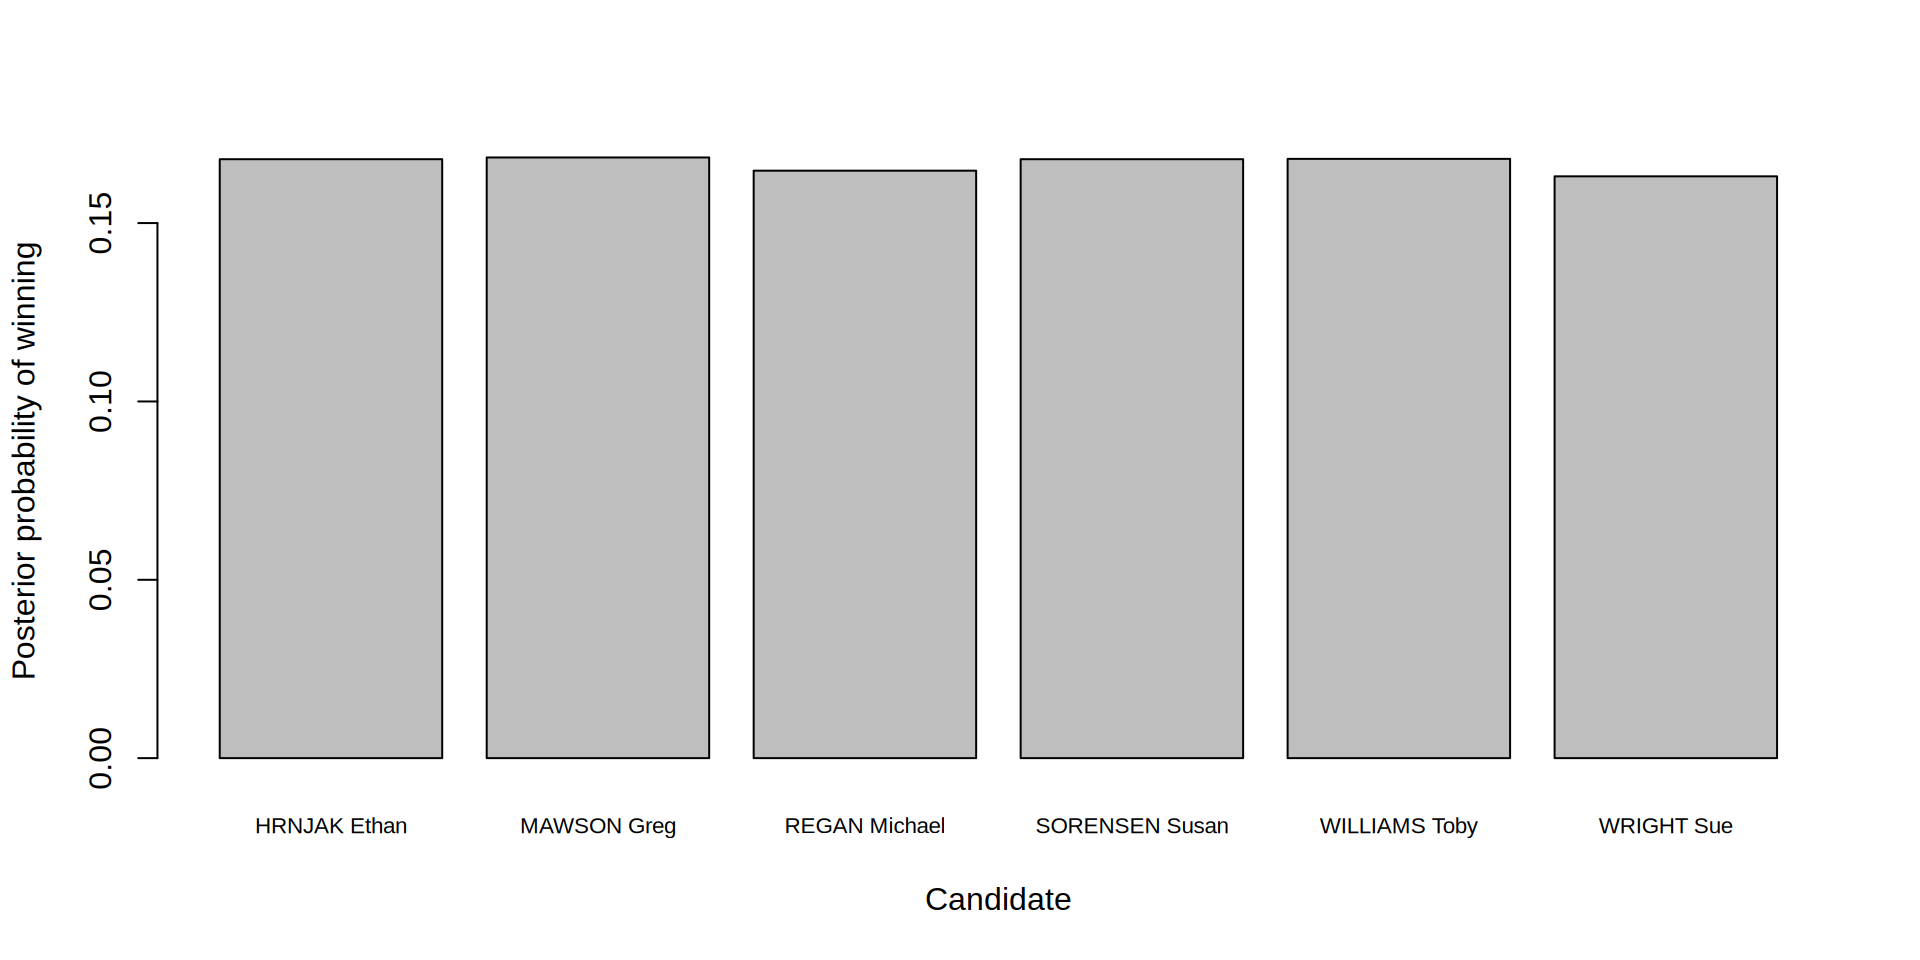
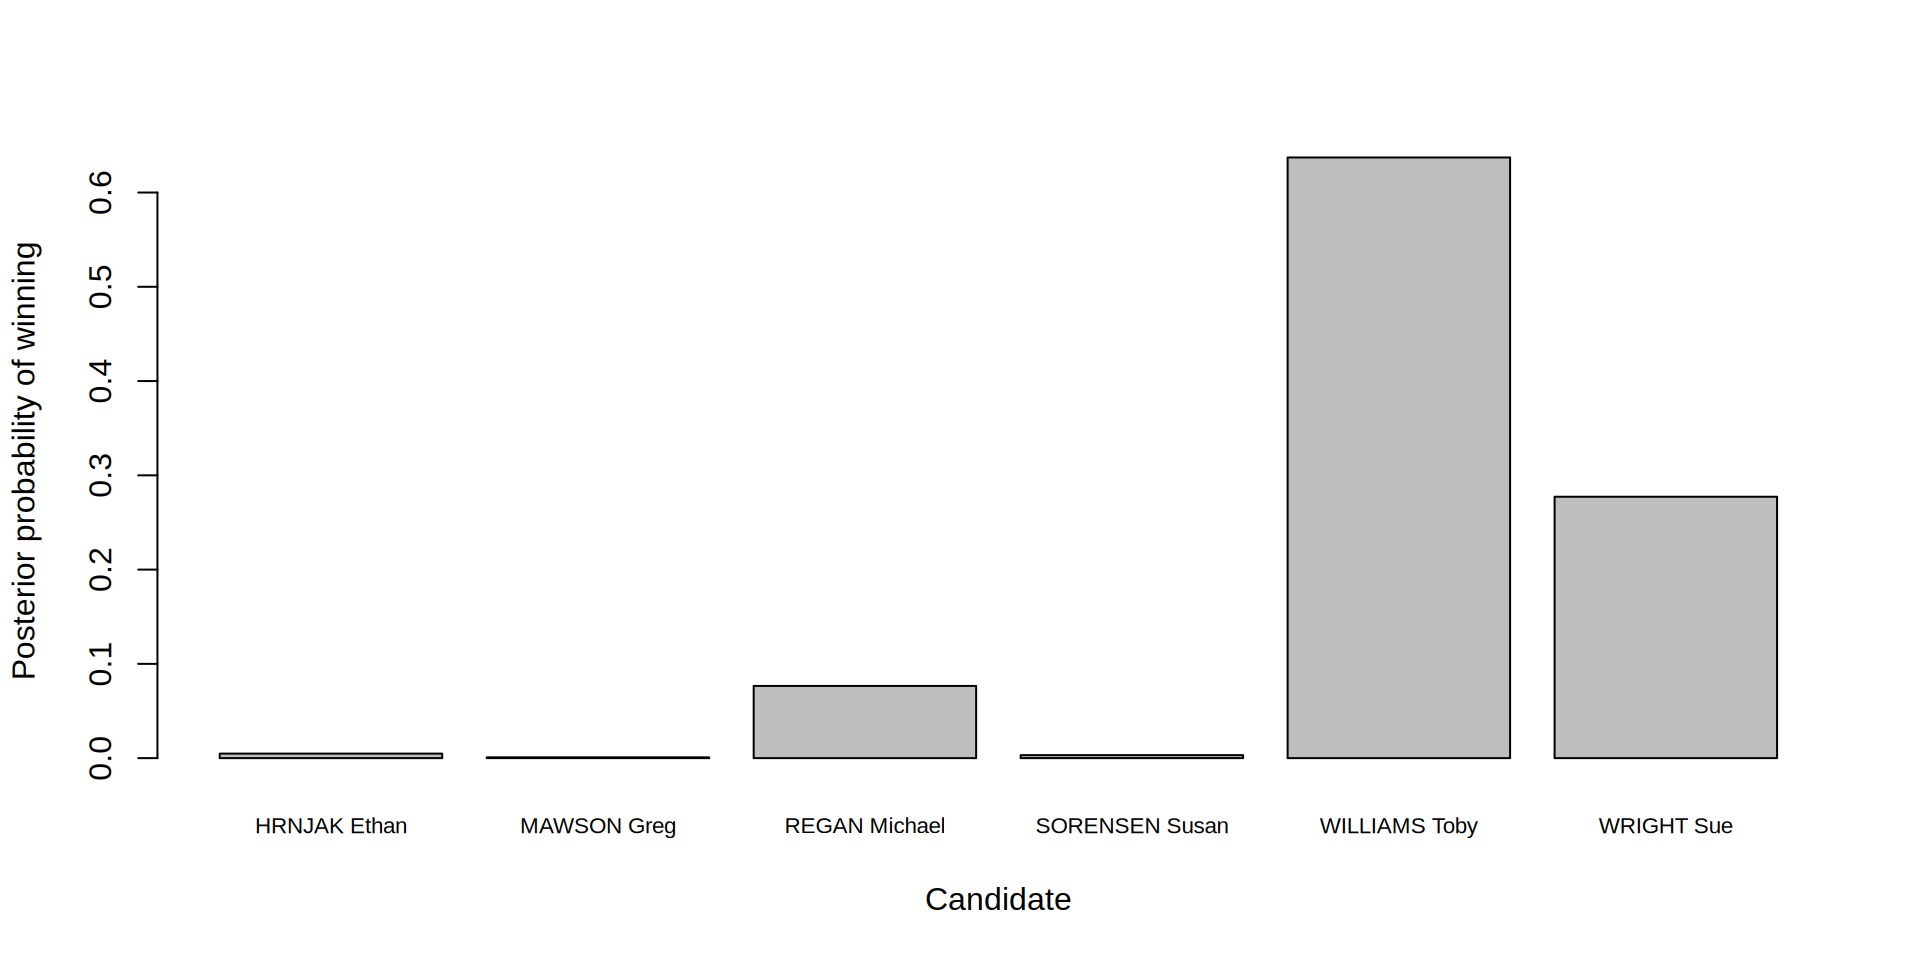
version 3 of slides

diff --git a/index.html b/index.html
@@ -402,11 +402,47 @@ Floyd Everest
 </div>
 
 </section>
-<section id="acknowledgements" class="title-slide slide level1 center">
-<h1>Acknowledgements</h1>
-
+<section id="my-career-so-far" class="slide level2">
+<h2>My career so far</h2>
+<p>Slides: <a href="https://fleverest.github.io/SSA-Showcase-2023">fleverest.github.io/SSA-Showcase-2023</a></p>
+<ul>
+<li>GD/MSc Data Science @ University of Melbourne
+<ul>
+<li>Bayesian election auditing</li>
+<li><code>elections.dtree</code></li>
+<li>Presented at E-Vote-ID, ESORICS 2022</li>
+</ul></li>
+</ul>
+<div class="fragment">
+<ul>
+<li>Research Assistant / Software Developer
+<ul>
+<li><code>prefio</code></li>
+</ul></li>
+</ul>
+</div>
+<div class="fragment">
+<ul>
+<li>PhD student @ Monash University</li>
+</ul>
+<aside class="notes">
+<p>URL for slides</p>
+<p>Not far into my academic career, I had a fruitful start: During my masters research (on bayesian election auditing) at unimelb I had the opportunity to publish work and present at two international conferences, one even in person at austria. I also had the opportunity to develop open source software and publish my first R package on CRAN (elections.dtree).</p>
+<p>Then, I worked for a year as a research assistant (where I published a second package <code>prefio</code> to CRAN) and a software developer.</p>
+<p>Now, I’ve just started my PhD at Monash university. I’m still quite early on in my academic journey, but I hope it continues to be as eventful as it has been so far</p>
+<style type="text/css">
+        span.MJX_Assistive_MathML {
+          position:absolute!important;
+          clip: rect(1px, 1px, 1px, 1px);
+          padding: 1px 0 0 0!important;
+          border: 0!important;
+          height: 1px!important;
+          width: 1px!important;
+          overflow: hidden!important;
+          display:block!important;
+      }</style></aside>
+</div>
 </section>
-
 <section>
 <section id="election-auditing" class="title-slide slide level1 center">
 <h1>Election Auditing</h1>
@@ -421,8 +457,7 @@ Floyd Everest
 </ul></li>
 <li><em>“Social choice”</em>
 <ul>
-<li>Choose the winner(s) among <strong>candidates</strong> <span class="math inline">\(\mathcal{C}\)</span></li>
-<li>Deterministic given <span class="math inline">\(\{b_i\}\)</span></li>
+<li>Calculate the winner(s) among <strong>candidates</strong> <span class="math inline">\(\mathcal{C}\)</span></li>
 </ul></li>
 </ul>
 </section>
@@ -451,16 +486,16 @@ Floyd Everest
 </section>
 <section id="idea-1" class="slide level2">
 <h2>Idea 1</h2>
-<div>
 <ul>
-<li class="fragment">Check every ballot cast in the election and re-count</li>
+<li>Check every ballot cast in the election and re-count</li>
 </ul>
+<div>
 <div class="columns">
 <div class="column" style="width:50%;">
 <ul>
 <li class="fragment">Pros:
 <ul>
-<li class="fragment">Guaranteed to correct invalid outcome</li>
+<li class="fragment">Guaranteed to correct errors</li>
 <li class="fragment">Creates jobs</li>
 </ul></li>
 </ul>
@@ -478,8 +513,11 @@ Floyd Everest
 </div>
 <aside class="notes">
 <p>The most straightforward way to audit an election is to simply re-count the ballots by hand until you can prove the outcome.</p>
-<p>While simplistic, this is the only way to correct an invalid outcome with 100% probability. In large elections this could take days, weeks, months: plenty of work to go around!</p>
-<p>This process would be extremely expensive for the electoral body If everyone did this, I’d have to find a new topic for my thesis There is a distinct lack of fun statistics tricks</p>
+<p>While simplistic, this is the only way to correct an incorrect reported outcome with 100% probability.</p>
+<p>This would create many jobs as the electoral body would need many counters.</p>
+<p>But of course it would be extremely expensive</p>
+<p>If everyone did this, I’d have to find a new topic for my PhD thesis</p>
+<p>The most important reason not to do this: it’s pretty boring, and there is a distinct lack of fun statistics tricks</p>
 <style type="text/css">
         span.MJX_Assistive_MathML {
           position:absolute!important;
@@ -545,61 +583,8 @@ Floyd Everest
 <li>Otherwise, conduct full recount</li>
 </ul></li>
 </ul>
-<div class="fragment">
-<ul>
-<li>Sample ballots at random
-<ul>
-<li>Compute test statistic(s) at each step</li>
-<li>Stop when/if the statistic passes some threshold</li>
-</ul></li>
-</ul>
 <aside class="notes">
-<p>If the reported outcome is incorrect, we should proceed to a recount with high probability. An upset is the event the reported outcome was false</p>
-<style type="text/css">
-        span.MJX_Assistive_MathML {
-          position:absolute!important;
-          clip: rect(1px, 1px, 1px, 1px);
-          padding: 1px 0 0 0!important;
-          border: 0!important;
-          height: 1px!important;
-          width: 1px!important;
-          overflow: hidden!important;
-          display:block!important;
-      }</style></aside>
-</div>
-</section>
-<section id="visually" class="slide level2">
-<h2>Visually</h2>
-<ul>
-<li>Candidates <span class="math inline">\(\mathcal{C} = \{A, B, C\}\)</span>.</li>
-<li><span class="math inline">\(A\)</span> is reported to have won.</li>
-</ul>
-
-<img data-src="index_files/figure-revealjs/unnamed-chunk-2-1.png" id="fig-539a35d47e664c97a50115a146a7f1bd-1" width="960" class="r-stretch quarto-figure-center"><aside class="notes">
-<p>This is a ternary plot, which helps to visualise the ballot proportions in favour of three candidates.</p>
-<p>A single point on this plot corresponds to the proportion each of the three possible ballots takes in the election, sample, etc.</p>
-<p>The alternative corresponds to the case where A truly does receive a majority vote, and the null hypothesis corresponds to any other scenario where A does not win.</p>
-<style type="text/css">
-        span.MJX_Assistive_MathML {
-          position:absolute!important;
-          clip: rect(1px, 1px, 1px, 1px);
-          padding: 1px 0 0 0!important;
-          border: 0!important;
-          height: 1px!important;
-          width: 1px!important;
-          overflow: hidden!important;
-          display:block!important;
-      }</style></aside>
-</section>
-<section id="visually-1" class="slide level2">
-<h2>Visually</h2>
-<ul>
-<li>Candidates <span class="math inline">\(\mathcal{C} = \{A, B, C\}\)</span>.</li>
-<li><span class="math inline">\(A\)</span> is reported to have won.</li>
-</ul>
-
-<img data-src="index_files/figure-revealjs/unnamed-chunk-3-1.png" id="fig-539a35d47e664c97a50115a146a7f1bd-2" width="960" class="r-stretch quarto-figure-center"><aside class="notes">
-<p>The null hypothesis here can be partitioned to a composite null, with each region corresponding to the two other potential outcomes of the election (B wins, C wins).</p>
+<p>If the reported outcome is incorrect, we will need to proceed to a full recount anyway.</p>
 <style type="text/css">
         span.MJX_Assistive_MathML {
           position:absolute!important;
@@ -614,20 +599,19 @@ Floyd Everest
 </section>
 <section id="formally" class="slide level2">
 <h2>Formally…</h2>
-<div>
 <ul>
-<li class="fragment">Set-up:
+<li>Set-up:
 <ul>
-<li class="fragment"><span class="math inline">\(\text{H}_0\)</span>: The reported outcome is false
-<ul>
-<li class="fragment">In many cases, <span class="math inline">\(\text{H}_0\)</span> is <em>composite</em></li>
+<li><span class="math inline">\(\text{H}_0\)</span>: The reported outcome is false (<span class="math inline">\(A\)</span> doesn’t win)</li>
+<li><span class="math inline">\(\text{H}_1\)</span>: The reported outcome is true (<span class="math inline">\(A\)</span> does indeed win)</li>
 </ul></li>
-<li class="fragment"><span class="math inline">\(\text{H}_1\)</span>: The reported outcome is true</li>
-</ul></li>
-<li class="fragment">Procedure
+</ul>
+<div class="fragment">
 <ul>
-<li class="fragment">Model <span class="math inline">\(\{b_i\}\)</span> as realisations from IID <span class="math inline">\(\{B_i\}\)</span></li>
-<li class="fragment">Compute statistic based on the random sample seen so far</li>
+<li>Procedure
+<ul>
+<li>Sample ballots at random</li>
+<li>Compute statistic based on what we’ve seen so far</li>
 </ul></li>
 </ul>
 </div>
@@ -635,45 +619,39 @@ Floyd Everest
 <section id="sample-proportions" class="slide level2">
 <h2>Sample proportions</h2>
 
-<img data-src="index_files/figure-revealjs/unnamed-chunk-4-1.png" id="fig-539a35d47e664c97a50115a146a7f1bd-3" width="960" class="r-stretch quarto-figure-center"></section>
+<img data-src="index_files/figure-revealjs/unnamed-chunk-2-1.png" id="fig-539a35d47e664c97a50115a146a7f1bd-1" width="960" class="r-stretch quarto-figure-center"></section>
 <section id="sample-proportions-1" class="slide level2">
 <h2>Sample proportions</h2>
 
-<img data-src="index_files/figure-revealjs/unnamed-chunk-5-1.png" id="fig-539a35d47e664c97a50115a146a7f1bd-4" width="960" class="r-stretch quarto-figure-center"></section>
+<img data-src="index_files/figure-revealjs/unnamed-chunk-3-1.png" id="fig-539a35d47e664c97a50115a146a7f1bd-2" width="960" class="r-stretch quarto-figure-center"></section>
 <section id="sample-proportions-2" class="slide level2">
 <h2>Sample proportions</h2>
 
-<img data-src="index_files/figure-revealjs/unnamed-chunk-6-1.png" id="fig-539a35d47e664c97a50115a146a7f1bd-5" width="960" class="r-stretch quarto-figure-center"></section>
+<img data-src="index_files/figure-revealjs/unnamed-chunk-4-1.png" id="fig-539a35d47e664c97a50115a146a7f1bd-3" width="960" class="r-stretch quarto-figure-center"></section>
 <section id="sample-proportions-3" class="slide level2">
 <h2>Sample proportions</h2>
 
-<img data-src="index_files/figure-revealjs/unnamed-chunk-7-1.png" id="fig-539a35d47e664c97a50115a146a7f1bd-6" width="960" class="r-stretch quarto-figure-center"></section>
+<img data-src="index_files/figure-revealjs/unnamed-chunk-5-1.png" id="fig-539a35d47e664c97a50115a146a7f1bd-4" width="960" class="r-stretch quarto-figure-center"></section>
 <section id="sample-proportions-4" class="slide level2">
 <h2>Sample proportions</h2>
 
-<img data-src="index_files/figure-revealjs/unnamed-chunk-8-1.png" id="fig-539a35d47e664c97a50115a146a7f1bd-7" width="960" class="r-stretch quarto-figure-center"></section>
+<img data-src="index_files/figure-revealjs/unnamed-chunk-6-1.png" id="fig-539a35d47e664c97a50115a146a7f1bd-5" width="960" class="r-stretch quarto-figure-center"></section>
 <section id="bayesian-audits" class="slide level2">
 <h2>Bayesian audits</h2>
-<div>
 <ul>
-<li class="fragment"><p>Model ballots <span class="math inline">\(\sim\ \text{Multinomial}(N, p)\)</span></p></li>
-<li class="fragment"><p>Choose a prior, e.g.&nbsp;<span class="math inline">\(\pi_0: \text{Dirichlet}(\alpha_0)\)</span></p></li>
-<li class="fragment"><p>Given ballots <span class="math inline">\(\{b_i\}_{i=1}^n\)</span></p>
-<ul>
-<li class="fragment">Calculate posterior <span class="math inline">\(\pi_n: \text{Dirichlet-Multinomial}(N-n, alpha_n)\)</span></li>
-<li class="fragment">Use draws from <span class="math inline">\(\pi_n\)</span> to estimate posterior probability of <span class="math inline">\(\text{H}_0\)</span> directly</li>
-</ul></li>
+<li>Use Bayesian statistics to quantify current uncertainty</li>
+<li>Calculate posterior <span class="math inline">\(\pi_n\)</span> using current sample</li>
+<li>Use <span class="math inline">\(\pi_n\)</span> to find posterior probability of <span class="math inline">\(\text{H}_1\)</span> directly!</li>
 </ul>
-</div>
 </section>
 <section id="posterior-pi_n" class="slide level2">
 <h2>Posterior <span class="math inline">\(\pi_n\)</span></h2>
 
-<img data-src="index_files/figure-revealjs/unnamed-chunk-9-1.png" id="fig-539a35d47e664c97a50115a146a7f1bd-8" width="960" class="r-stretch quarto-figure-center"></section>
+<img data-src="index_files/figure-revealjs/unnamed-chunk-7-1.png" id="fig-539a35d47e664c97a50115a146a7f1bd-6" width="960" class="r-stretch quarto-figure-center"></section>
 <section id="monte-carlo-integration" class="slide level2">
 <h2>Monte-carlo integration</h2>
 
-<img data-src="index_files/figure-revealjs/unnamed-chunk-10-1.png" id="fig-539a35d47e664c97a50115a146a7f1bd-9" width="960" class="r-stretch quarto-figure-center"><aside class="notes">
+<img data-src="index_files/figure-revealjs/unnamed-chunk-8-1.png" id="fig-539a35d47e664c97a50115a146a7f1bd-7" width="960" class="r-stretch quarto-figure-center"><aside class="notes">
 <p>Using the model, we take draws from the posterior and we can count how many simulations support the null, how many support the alternative. Then, we can derive posterior probabilities for the null and alternative and stop auditing when we are satisfied.</p>
 <style type="text/css">
         span.MJX_Assistive_MathML {
@@ -795,7 +773,7 @@ Floyd Everest
 <span id="cb5-7"><a href="#cb5-7"></a><span class="fu">barplot</span>(prob_post, <span class="at">xlab =</span> <span class="st">"Candidate"</span>, <span class="at">ylab=</span> <span class="st">"Posterior probability of winning"</span>,  <span class="at">cex.names=</span>.<span class="dv">7</span>)</span></code><button title="Copy to Clipboard" class="code-copy-button"><i class="bi"></i></button></pre></div>
 
 </div>
-<img data-src="index_files/figure-revealjs/unnamed-chunk-14-1.png" id="fig-539a35d47e664c97a50115a146a7f1bd-10" width="960" class="r-stretch quarto-figure-center"><p>Uniform!</p>
+<img data-src="index_files/figure-revealjs/unnamed-chunk-12-1.png" id="fig-539a35d47e664c97a50115a146a7f1bd-8" width="960" class="r-stretch quarto-figure-center"><p>Uniform!</p>
 </section>
 <section id="observe-a-small-batch-of-ballots" class="slide level2">
 <h2>Observe a small batch of ballots</h2>
@@ -811,7 +789,7 @@ Floyd Everest
 <span id="cb6-9"><a href="#cb6-9"></a><span class="fu">barplot</span>(prob_post, <span class="at">xlab =</span> <span class="st">"Candidate"</span>, <span class="at">ylab=</span> <span class="st">"Posterior probability of winning"</span>,  <span class="at">cex.names=</span>.<span class="dv">7</span>)</span></code><button title="Copy to Clipboard" class="code-copy-button"><i class="bi"></i></button></pre></div>
 
 </div>
-<img data-src="index_files/figure-revealjs/unnamed-chunk-15-1.png" id="fig-539a35d47e664c97a50115a146a7f1bd-11" width="960" class="r-stretch quarto-figure-center"></section>
+<img data-src="index_files/figure-revealjs/unnamed-chunk-13-1.png" id="fig-539a35d47e664c97a50115a146a7f1bd-9" width="960" class="r-stretch quarto-figure-center"></section>
 <section id="and-another" class="slide level2">
 <h2>and another…</h2>
 <div class="cell">
@@ -826,27 +804,27 @@ Floyd Everest
 <span id="cb7-9"><a href="#cb7-9"></a><span class="fu">barplot</span>(prob_post, <span class="at">xlab =</span> <span class="st">"Candidate"</span>, <span class="at">ylab=</span> <span class="st">"Posterior probability of winning"</span>,  <span class="at">cex.names=</span>.<span class="dv">7</span>)</span></code><button title="Copy to Clipboard" class="code-copy-button"><i class="bi"></i></button></pre></div>
 
 </div>
-<img data-src="index_files/figure-revealjs/unnamed-chunk-16-1.png" id="fig-539a35d47e664c97a50115a146a7f1bd-12" width="960" class="r-stretch quarto-figure-center"></section>
+<img data-src="index_files/figure-revealjs/unnamed-chunk-14-1.png" id="fig-539a35d47e664c97a50115a146a7f1bd-10" width="960" class="r-stretch quarto-figure-center"></section>
 <section id="section" class="slide level2">
 <h2></h2>
 
-<img data-src="index_files/figure-revealjs/unnamed-chunk-17-1.png" id="fig-539a35d47e664c97a50115a146a7f1bd-13" width="960" class="r-stretch quarto-figure-center"></section>
+<img data-src="index_files/figure-revealjs/unnamed-chunk-15-1.png" id="fig-539a35d47e664c97a50115a146a7f1bd-11" width="960" class="r-stretch quarto-figure-center"></section>
 <section id="section-1" class="slide level2">
 <h2></h2>
 
-<img data-src="index_files/figure-revealjs/unnamed-chunk-18-1.png" id="fig-539a35d47e664c97a50115a146a7f1bd-14" width="960" class="r-stretch quarto-figure-center"></section>
+<img data-src="index_files/figure-revealjs/unnamed-chunk-16-1.png" id="fig-539a35d47e664c97a50115a146a7f1bd-12" width="960" class="r-stretch quarto-figure-center"></section>
 <section id="section-2" class="slide level2">
 <h2></h2>
 
-<img data-src="index_files/figure-revealjs/unnamed-chunk-19-1.png" id="fig-539a35d47e664c97a50115a146a7f1bd-15" width="960" class="r-stretch quarto-figure-center"></section>
+<img data-src="index_files/figure-revealjs/unnamed-chunk-17-1.png" id="fig-539a35d47e664c97a50115a146a7f1bd-13" width="960" class="r-stretch quarto-figure-center"></section>
 <section id="section-3" class="slide level2">
 <h2></h2>
 
-<img data-src="index_files/figure-revealjs/unnamed-chunk-20-1.png" id="fig-539a35d47e664c97a50115a146a7f1bd-16" width="960" class="r-stretch quarto-figure-center"></section>
+<img data-src="index_files/figure-revealjs/unnamed-chunk-18-1.png" id="fig-539a35d47e664c97a50115a146a7f1bd-14" width="960" class="r-stretch quarto-figure-center"></section>
 <section id="tracing-the-probabilities-over-time" class="slide level2">
 <h2>Tracing the probabilities over time</h2>
 
-<img data-src="index_files/figure-revealjs/unnamed-chunk-21-1.png" id="fig-539a35d47e664c97a50115a146a7f1bd-17" width="960" class="r-stretch quarto-figure-center"></section></section>
+<img data-src="index_files/figure-revealjs/unnamed-chunk-19-1.png" id="fig-539a35d47e664c97a50115a146a7f1bd-15" width="960" class="r-stretch quarto-figure-center"></section></section>
 <section>
 <section id="questions" class="title-slide slide level1 center">
 <h1>Questions</h1>
@@ -854,6 +832,7 @@ Floyd Everest
 </section>
 <section id="references" class="slide level2 smaller">
 <h2>References</h2>
+<p>Slides: <a href="https://fleverest.github.io/SSA-Showcase-2023">fleverest.github.io/SSA-Showcase-2023</a></p>
 <ul>
 <li><a href="https://doi.org/10.5281/zenodo.5960048">Quarto</a>. Allaire, J. J., Charles Teague, Carlos Scheidegger, Yihui Xie, and Christophe Dervieux. 2022.</li>
 <li><a href="https://www.usenix.org/system/files/conference/evtwote12/rivest_bayes_rev_073112.pdf">A Bayesian Method for Auditing Elections</a>. Emily Shen, and Ronald L. Rivest. 2012.</li>
